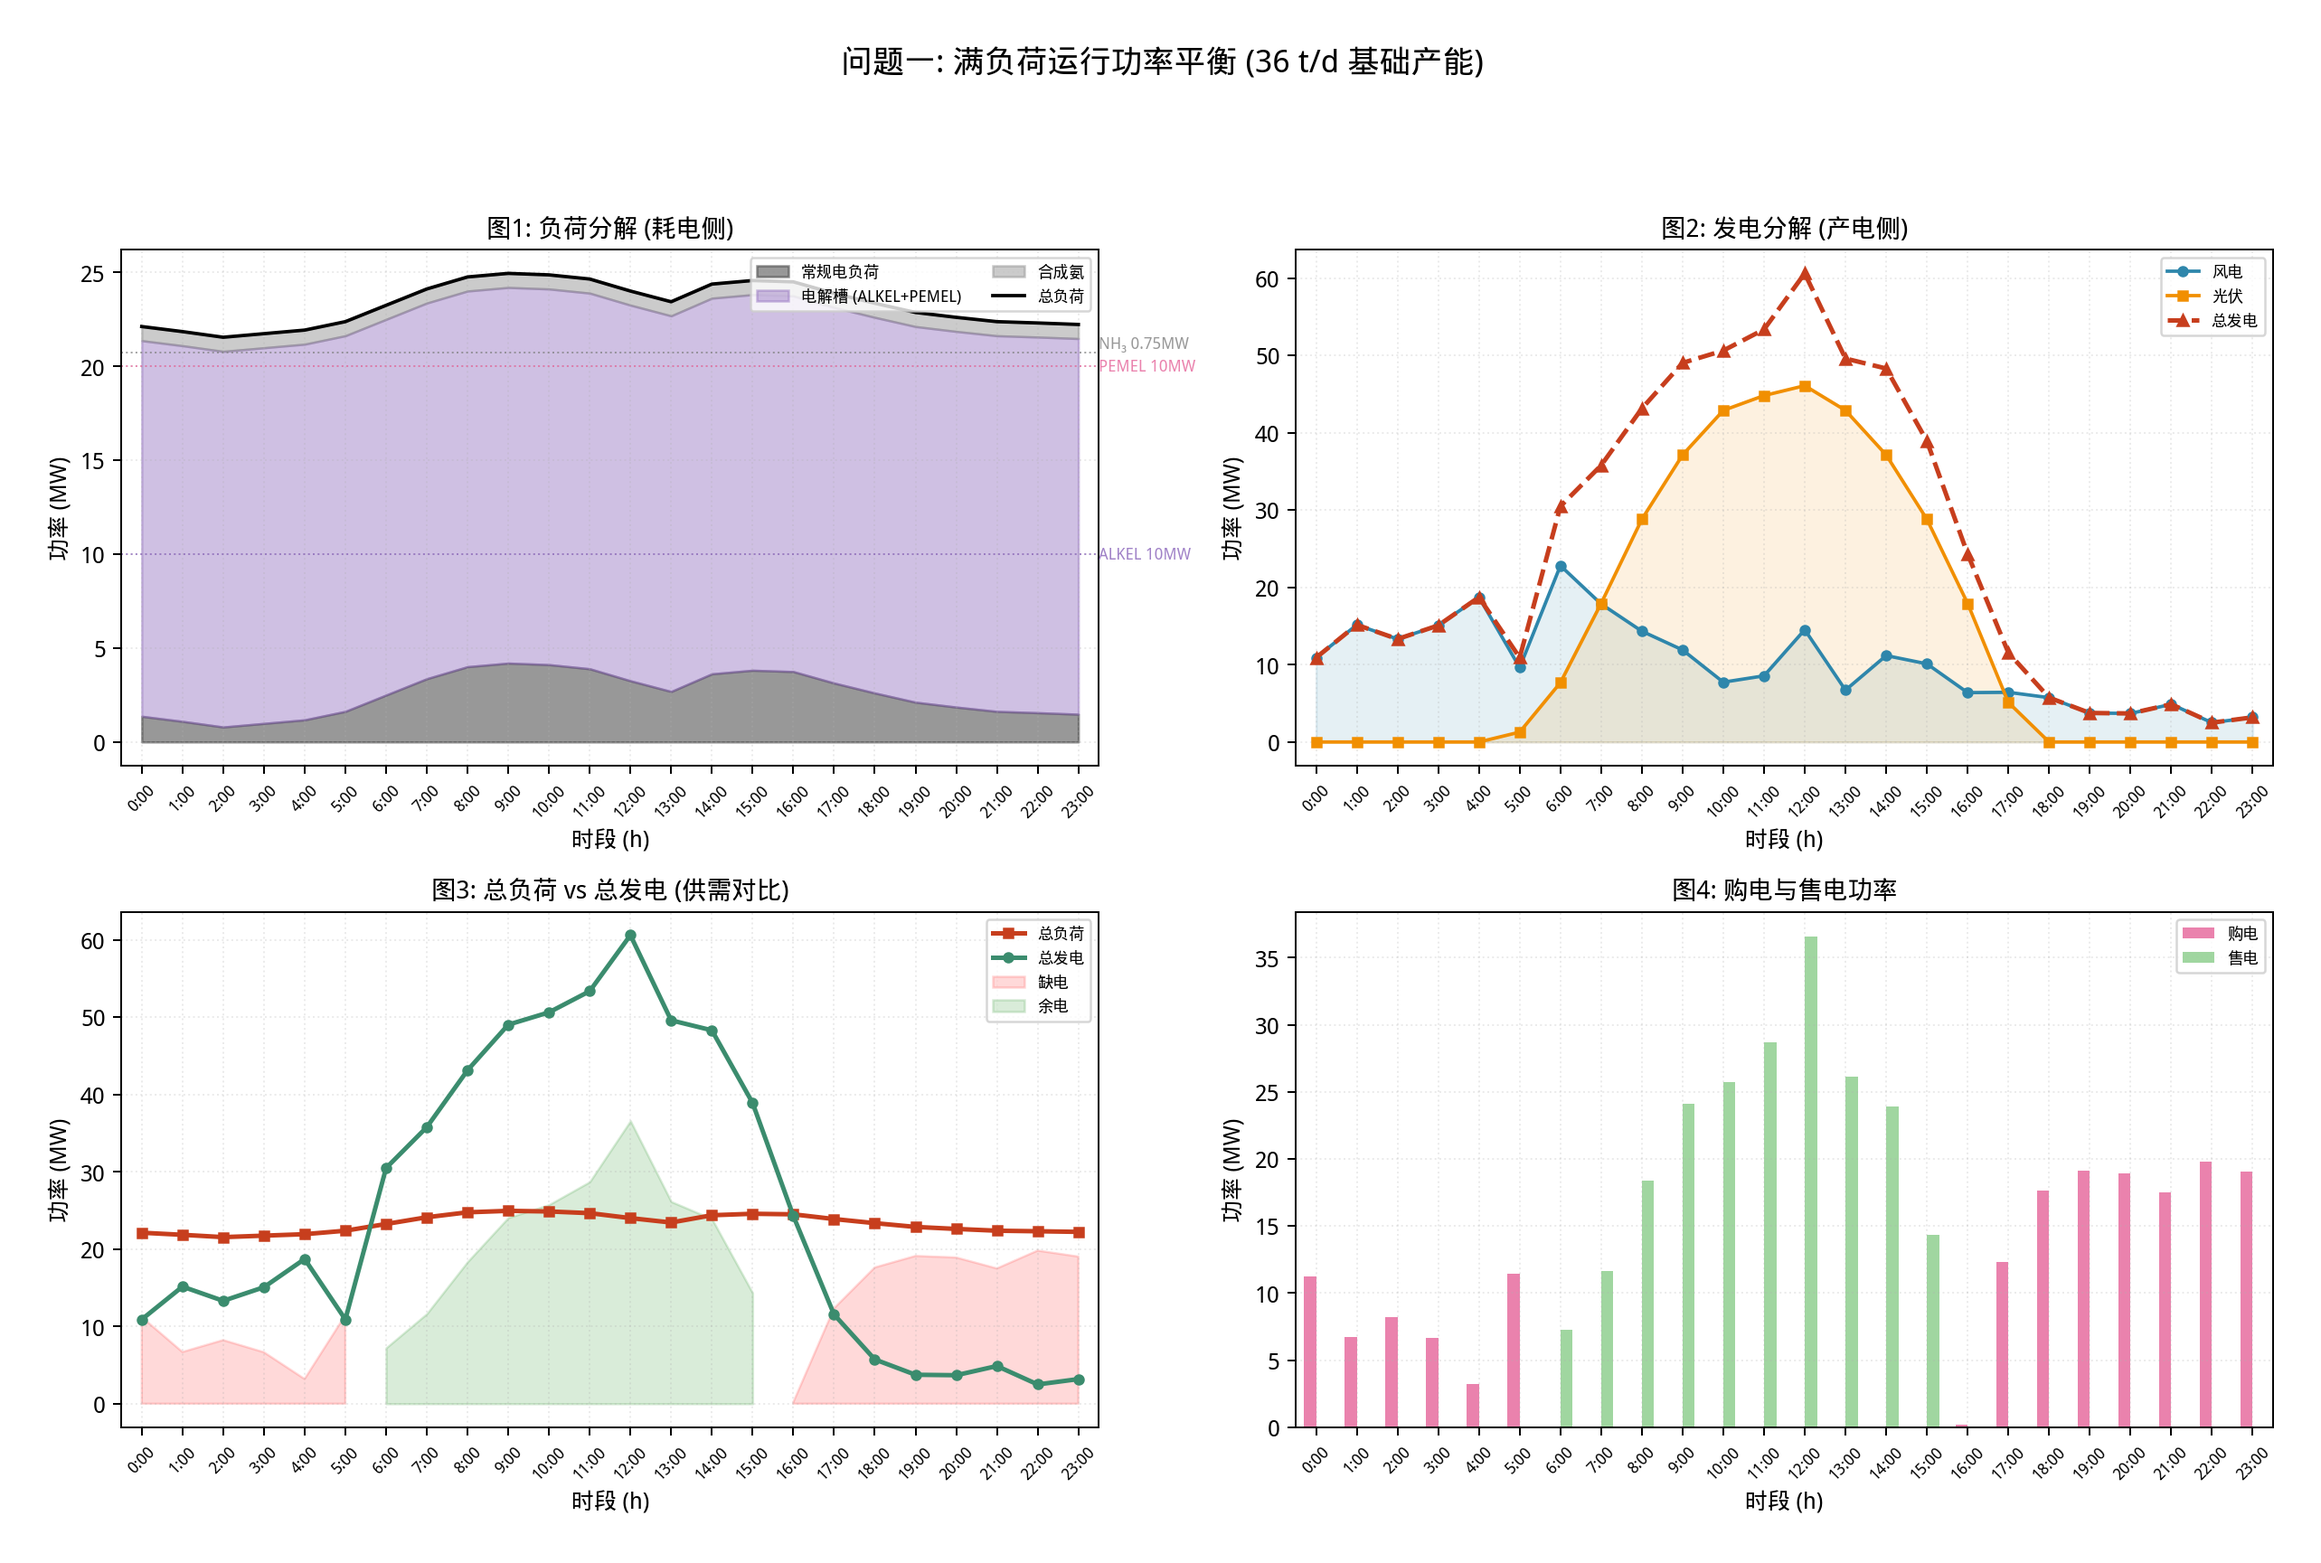
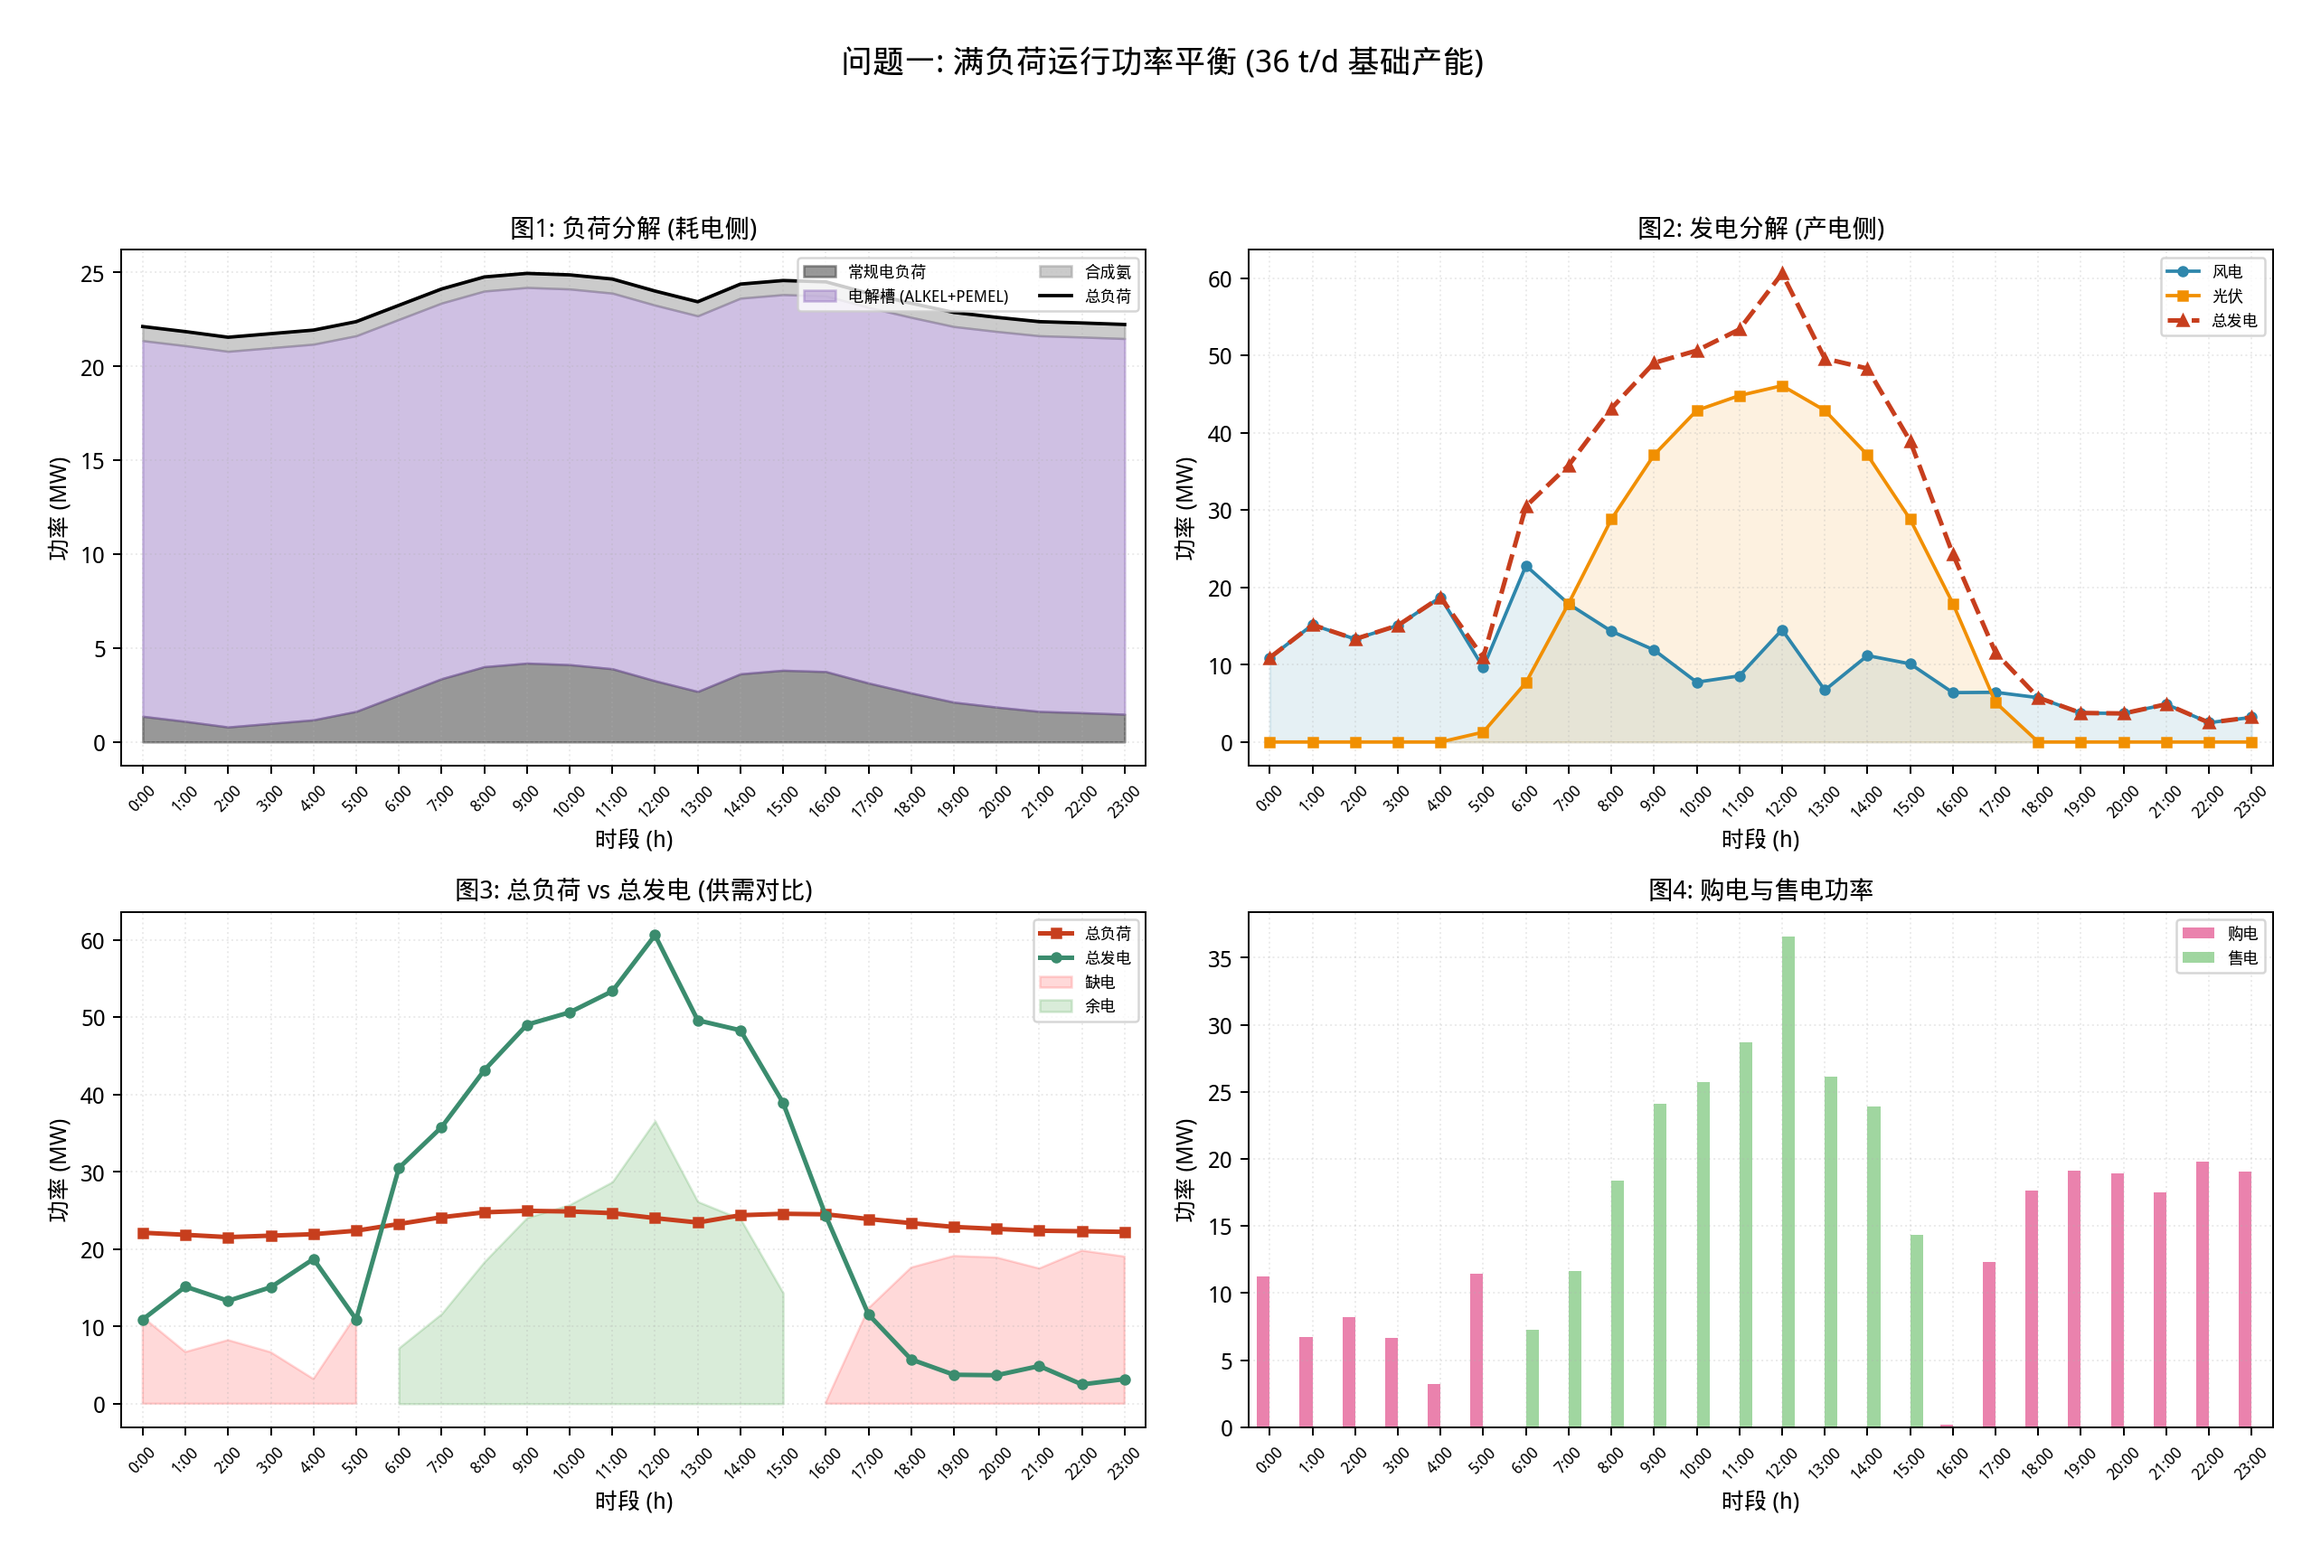
q1添加图片

diff --git a/src/q1_calculation.py b/src/q1_calculation.py
@@ -52,12 +52,6 @@ def plot_q1_figures(P_wind, P_solar, P_load, P_buy, P_sell,
     ax1.fill_between(t, P_load, P_load + P_alkel + P_pemel, label='电解槽 (ALKEL+PEMEL)', color='#8963BA', alpha=0.4)
     ax1.fill_between(t, P_load + P_alkel + P_pemel, P_total_load, label='合成氨', color='#7F7F7F', alpha=0.4)
     ax1.plot(t, P_total_load, 'k-', linewidth=1.5, label='总负荷')
-    ax1.axhline(y=10, xmin=0, xmax=1, color='#8963BA', linestyle=':', linewidth=0.8, alpha=0.7)
-    ax1.axhline(y=20, xmin=0, xmax=1, color='#E56399', linestyle=':', linewidth=0.8, alpha=0.7)
-    ax1.axhline(y=20.75, xmin=0, xmax=1, color='#7F7F7F', linestyle=':', linewidth=0.8, alpha=0.7)
-    ax1.text(23.5, 10, 'ALKEL 10MW', fontsize=7, va='center', color='#8963BA', alpha=0.8)
-    ax1.text(23.5, 20, 'PEMEL 10MW', fontsize=7, va='center', color='#E56399', alpha=0.8)
-    ax1.text(23.5, 20.75, 'NH₃ 0.75MW', fontsize=7, va='bottom', color='#7F7F7F', alpha=0.8)
     _finish_ax(ax1, '功率 (MW)', '图1: 负荷分解 (耗电侧)')
     ax1.legend(fontsize=7, ncol=2, loc='upper right')
 
@@ -175,8 +169,39 @@ def solve_q1():
     # ── 绘图 ──
     plot_q1_figures(P_wind, P_solar, P_load, P_buy, P_sell,
                     P_alkel, P_pemel, P_ammonia, ind)
+    plot_q1_indicators(ind)
 
     return ind
+
+
+def plot_q1_indicators(ind):
+    fig, axes = plt.subplots(1, 3, figsize=(12, 2.5))
+    items = [
+        ('新能源自发自用率 $\\eta_{self}$', ind['eta_self'] * 100, 60, '>'),
+        ('总用电量绿电比例 $\\eta_{green}$', ind['eta_green'] * 100, 30, '>'),
+        ('新能源上网电量比例 $\\eta_{sell}$', ind['eta_sell'] * 100, 20, '<'),
+    ]
+    for ax, (name, val, thresh, direction) in zip(axes, items):
+        passed = (val > thresh) if direction == '>' else (val < thresh)
+        color = '#3B8C6E' if passed else '#C73E1D'
+        ax.barh(0, 100, color='gray', alpha=0.25, height=0.7, label='100%')
+        ax.barh(0, min(val, 100), color=color, alpha=0.85, height=0.7)
+        ax.axvline(thresh, color='black', linestyle='--', linewidth=1.5)
+        ax.text(thresh, 0.6, f'{thresh}%', ha='center', fontsize=8,
+                bbox=dict(facecolor='white', edgecolor='none', pad=1))
+        ax.set_xlim(0, 100)
+        ax.set_ylim(-0.8, 0.8)
+        ax.set_yticks([])
+        ax.set_title(f'{name}\n{val:.1f}%',
+                     fontsize=10, color='#333333')
+        ax.set_xlabel('比例 (%)' if ax == axes[-1] else '', fontsize=8)
+        ax.tick_params(labelsize=7)
+    fig.suptitle('绿电直连指标达标情况（问题一 满负荷运行）', fontsize=13, y=1.08)
+    fig.tight_layout()
+    path = str(RESULTS_DIR / 'q1_green_indicators.png')
+    fig.savefig(path, dpi=180, bbox_inches='tight', pad_inches=0.3)
+    plt.close(fig)
+    print(f"[Saved] {path}")
 
 
 if __name__ == '__main__':
